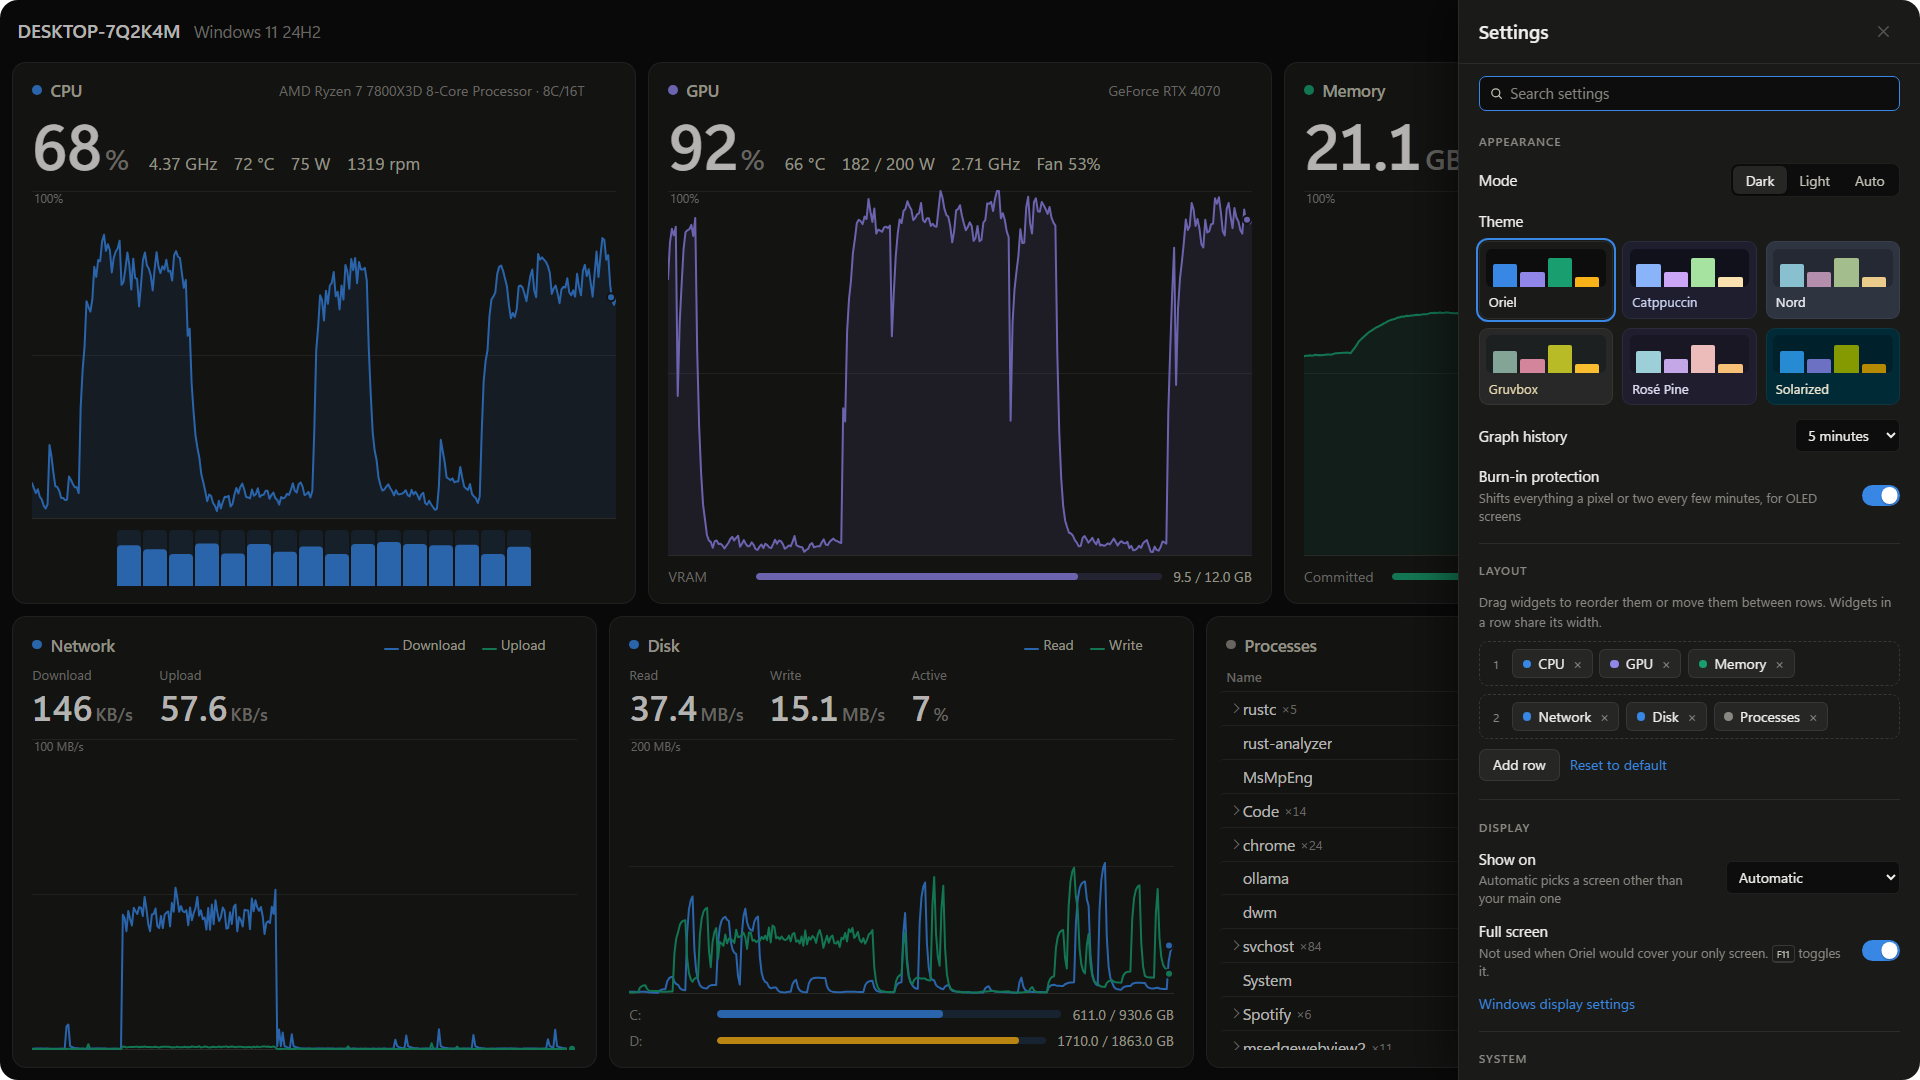
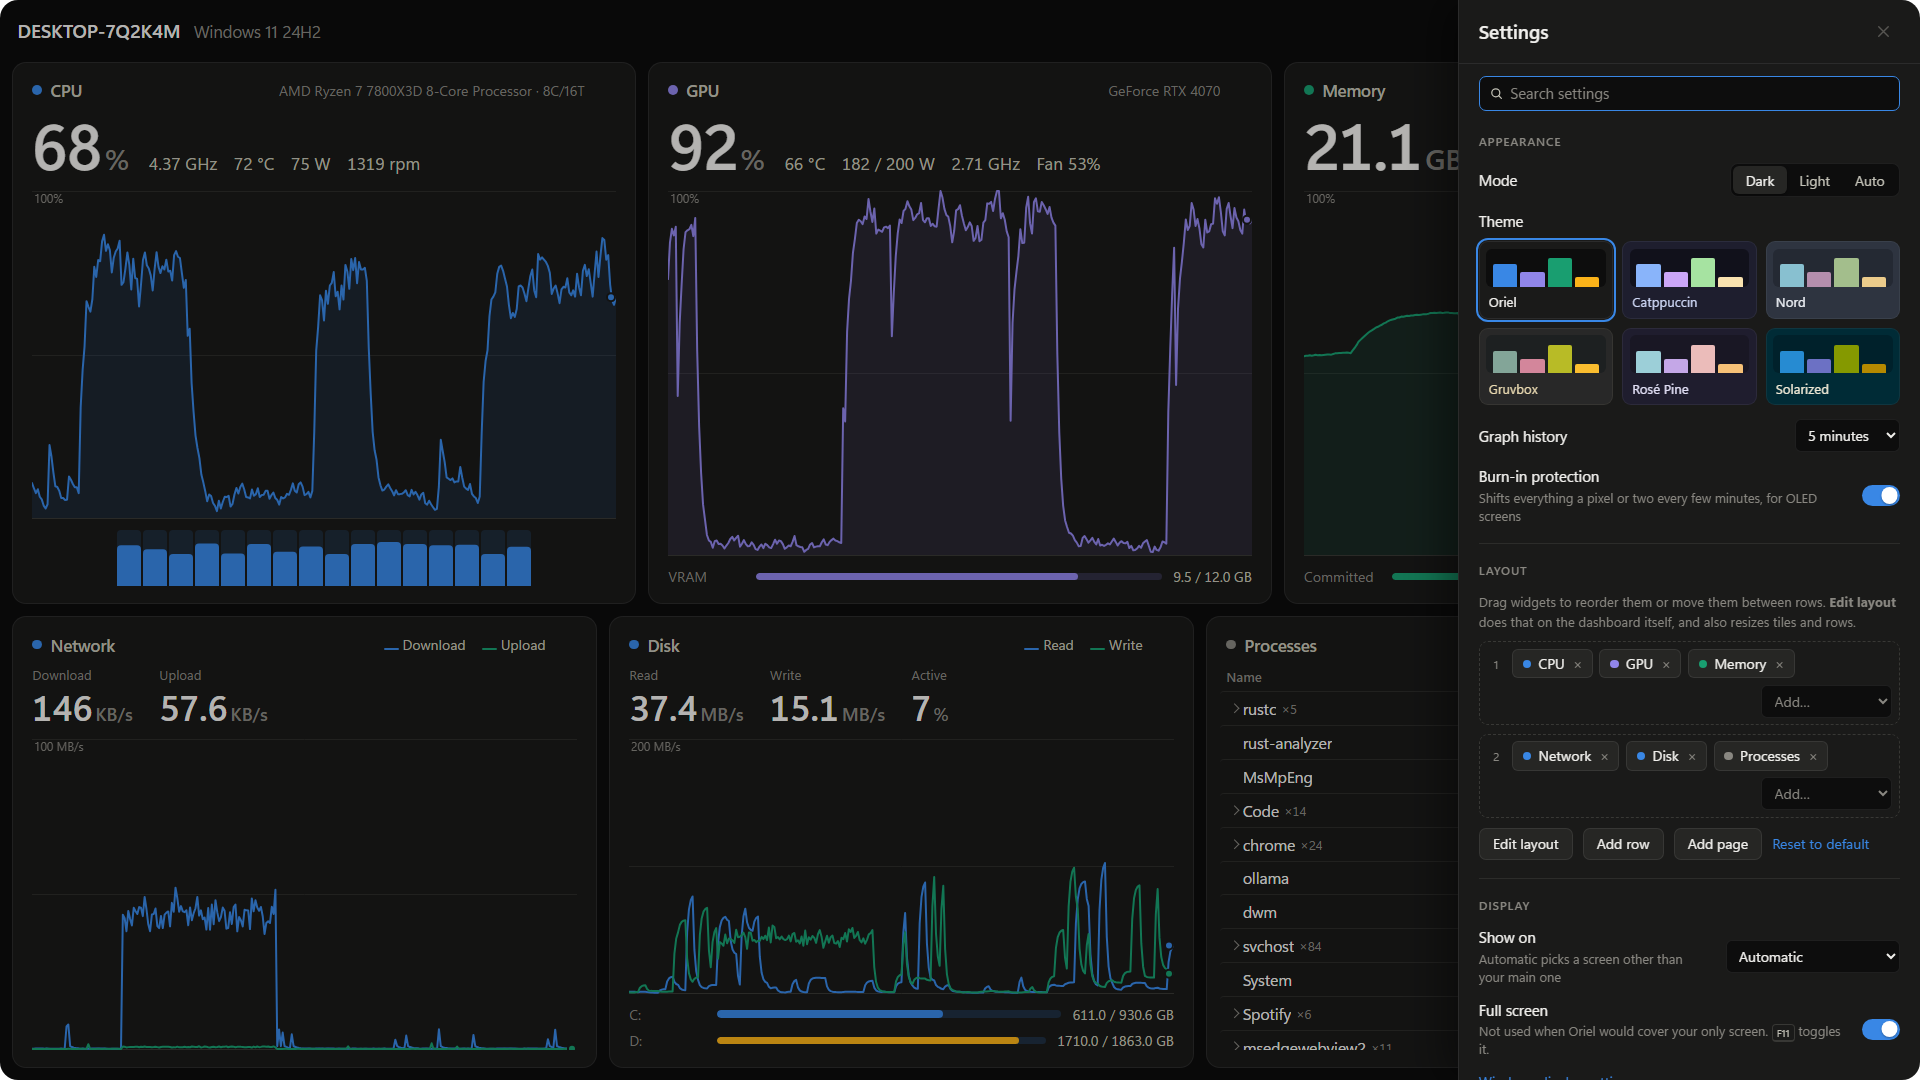
Prepare 0.2.0: version bump, a docs pass and a widgets screenshot (#9)
- Version 0.2.0 in Cargo.toml (and Cargo.lock, and the preview's made-up About).
- README: the widgets you add yourself get their own list and a picture of a
  second page; "Add it in Settings > Layout" once instead of six times; the
  weather/calendar section and the privacy FAQ say it once; the plugin warning
  mentions that plugins can read the settings, calendar links included.
- CONTRIBUTING: the plugin section points at the README and SECURITY.md instead
  of repeating them; release steps use a signed tag.
- SECURITY.md: Open windows sits with the other widgets, plugins last.
- preview.ps1 renders the new widgets page; settings.png re-rendered.

diff --git a/tools/preview/demo.js b/tools/preview/demo.js
@@ -116,7 +116,7 @@
   if (heights.length) settings.pages[0].rows = heights;
   const GPU_ID = "0x00000000_0x0000e1c7";
   const info = {
-    host: "DESKTOP-7Q2K4M", os: "Windows 11 24H2", version: "0.1.0",
+    host: "DESKTOP-7Q2K4M", os: "Windows 11 24H2", version: "0.2.0",
     cpu: { name: "AMD Ryzen 7 7800X3D 8-Core Processor", cores: 8, threads: 16, base_mhz: 4200 },
     mem_total: 31.9 * GB,
     gpus: [{ id: GPU_ID, name: "NVIDIA GeForce RTX 4070", vendor: "nvidia", integrated: false, vram_total: 12 * GB, shared_total: 15.9 * GB, sensors: true }],

diff --git a/README.md b/README.md
@@ -6,8 +6,8 @@
 
 **A command center for your second screen, on Windows.**
 
-Your CPU, GPU, memory, network, disks and processes on one calm, full-screen dashboard,<br>
-readable from across the desk and light enough to leave running all day.
+Your CPU, GPU, memory, network, disks and processes, plus what's playing, the weather and your<br>
+calendar, on one calm, full-screen dashboard you can read from across the desk and leave running all day.
 
 [![MIT license](https://img.shields.io/badge/license-MIT-3987e5)](LICENSE)
 ![Windows 10 and 11](https://img.shields.io/badge/Windows-10%20%C2%B7%2011-3987e5)
@@ -55,25 +55,32 @@ needs your attention.
   (`chrome ×24`, click to see each one) or as a tree like btop, with branches you can fold
   away. Search it (<kbd>/</kbd>), sort by any column, and right-click to end a process or a
   whole group
-- **Now playing**: the track, artist and cover from Spotify, your browser or any app that shows
-  in Windows' media controls, with play/pause and skip. Add it in Settings → Layout
-- **Volume mixer**: your speakers' or headphones' volume and every app's, each with a mute
-  button, like Windows' own mixer. Add it in Settings → Layout
-- **Weather**: the temperature, conditions, today's high and low, the next hours and the next
-  days for a place you pick, from [Open-Meteo](https://open-meteo.com). Add it in Settings → Layout
-- **Calendar**: what's coming up in the next 7 or 14 days, from the calendar links (.ics) you
-  paste in: Google, Outlook, Apple and any other that publishes one. Recurring events, time
-  zones and all-day events work, and what's on now or next is highlighted. Add it in Settings → Layout
-- **Gauges**: dials for CPU and GPU load and temperature and for memory, with your warn and
-  critical limits marked on them. Add it in Settings → Layout
-- **Open windows**: the windows the taskbar and Alt+Tab would list. Click one to bring it to the
-  front (it's restored if minimized), or hover and press × to ask it to close. Search it, and
-  see which one is in front. Add it in Settings → Layout
 - **Battery**, uptime and a clock in the header
 
 <picture>
   <source media="(prefers-color-scheme: light)" srcset="docs/images/process-tree-light.png">
   <img alt="The process list as a tree: explorer, then Windows Terminal, PowerShell, cargo and the rustc processes of a build, with the Code and Chrome branches folded away" src="docs/images/process-tree-dark.png">
+</picture>
+
+More widgets to add in Settings → Layout, or with **Edit layout** (<kbd>E</kbd>), on a page of
+their own if you like:
+
+- **Now playing**: the track, artist and cover from Spotify, your browser or any app that shows
+  in Windows' media controls, with play/pause and skip
+- **Volume mixer**: your speakers' or headphones' volume and every app's, each with a mute
+  button, like Windows' own mixer
+- **Weather**: now, the next hours and the next days for a place you pick, from
+  [Open-Meteo](https://open-meteo.com)
+- **Calendar**: the next 7 or 14 days from the calendar links (.ics) you paste in, from Google,
+  Outlook, Apple or anything else that publishes one, recurring events and time zones included
+- **Gauges**: dials for CPU and GPU load and temperature and for memory, with your warn and
+  critical limits marked on them
+- **Open windows**: what the taskbar and Alt+Tab would list. Click one to bring it to the front,
+  or press its × to ask it to close
+
+<picture>
+  <source media="(prefers-color-scheme: light)" srcset="docs/images/widgets-light.png">
+  <img alt="A second page of the dashboard: weather, calendar and now playing across the top; gauges, the volume mixer and open windows below" src="docs/images/widgets-dark.png">
 </picture>
 
 ## Themes
@@ -186,11 +193,10 @@ on. [`docs/examples/world-clock.js`](docs/examples/world-clock.js) is a small ex
 
 > [!WARNING]
 > A plugin is code that runs inside the dashboard with the same rights as Oriel's own widgets:
-> it can read everything on the dashboard and use what it can, including ending processes,
-> changing volume and opening Windows settings. Only use plugins from people you trust, like
+> it can read everything on the dashboard and in your settings (calendar links included), end
+> processes, change volume and open Windows settings. Only use plugins from people you trust, like
 > browser extensions. Oriel's content security policy keeps them from loading anything from the
-> internet, but that's a safety net, not a sandbox. Off by default; see
-> [SECURITY.md](SECURITY.md) for the details.
+> internet, but that's a safety net, not a sandbox. See [SECURITY.md](SECURITY.md) for the details.
 
 ## Sensors
 
@@ -212,8 +218,7 @@ and power while something is already using the GPU.
 ## Weather and calendar
 
 These two widgets are the only parts of Oriel that go online, and each only while it's on one of
-your pages. Without them Oriel makes no connections apart from the one to LibreHardwareMonitor on
-your own PC. Each goes to one kind of place, and nothing else is sent:
+your pages. Each goes to one kind of place, and nothing else is sent:
 
 - **Weather** asks [Open-Meteo](https://open-meteo.com) (free, no account) for the forecast about
   every 30 minutes, with the place's coordinates rounded to about a kilometre. Pick the place in
@@ -225,28 +230,24 @@ your own PC. Each goes to one kind of place, and nothing else is sent:
   work too.
 
 A calendar link is like a password: anyone who has it can read that calendar. Oriel keeps it in
-your settings file and shows it only in Settings, hidden until you press *Show*. It never shows it
-anywhere else, writes it in a log or puts it in an error message.
+your settings file and shows it only in Settings, hidden until you press *Show*, never in a log or
+an error message.
 
 Both use Windows' own secure connections (https only, with your PC's certificates and proxy
 settings). If a refresh fails, say because you're offline, the tile keeps showing what it had,
-marked *Out of date*, and tries again. The refresh button on a tile fetches again at once.
+marked *Out of date*, and tries again.
 
-Calendars can have recurring events (daily, weekly, monthly and yearly, with exceptions and
-moved or cancelled occurrences) in any time zone Windows knows, which covers what Google, Apple
-and Outlook write. Times show in your PC's time zone and clock format. A recurrence rule that uses
-something rarer (like "the 20th week of the year") shows its event once, rather than guessing.
+Recurring events (daily, weekly, monthly and yearly, with exceptions and moved or cancelled
+occurrences) work in any time zone Windows knows, and times show in your PC's own. A rarer rule
+(like "the 20th week of the year") shows its event once rather than guessing.
 
 ## FAQ
 
 **Does Oriel send my data anywhere?**
-Not unless you add the weather or calendar widget, and then only what's described under
-[Weather and calendar](#weather-and-calendar): the coordinates of the place you picked, and a
-request to each calendar link you pasted. There's no account, telemetry or update check. The
-only other connection it makes is to LibreHardwareMonitor's web server, at the address in
-Settings (your own PC by default), and only to read sensors. Plugins, if you turn them on, are
-scripts from you; Oriel itself sends nothing more, and its content security policy stops plugins
-making network requests.
+Only if you add the weather or calendar widget, and then only what
+[Weather and calendar](#weather-and-calendar) lists. There's no account, telemetry or update
+check. The only other connection is to LibreHardwareMonitor's web server, at the address in
+Settings (your own PC by default), to read sensors.
 
 **Does it slow my PC down?**
 With the dashboard on screen it uses about 6% of one CPU core and 140 MB of memory, most of

diff --git a/CONTRIBUTING.md b/CONTRIBUTING.md
@@ -114,19 +114,11 @@ rather than fixed colors, so the widget works in every theme, dark and light.
 
 ### Writing a plugin
 
-A plugin is a widget that lives in a folder instead of in Oriel's source, so nobody has to
-rebuild anything. Put `name.js` (and, if you want, `name.css` beside it) in
-`%APPDATA%\Oriel\widgets`, turn on **Settings → Plugins → Load widgets from the plugins folder**
-(the **Open plugins folder** button there creates and opens it) and restart Oriel. The widget
-then shows in Settings → Layout, marked *(plugin)*. [`docs/examples/world-clock.js`](docs/examples/world-clock.js)
-and its `.css` are a complete small one to copy.
-
-> [!WARNING]
-> A plugin runs inside the dashboard with the same rights as the built-in widgets: it can read
-> every sample, and call everything the dashboard can (end processes, change volume, open
-> Windows settings pages). Only use plugins from people you trust, as with browser extensions.
-> The page's content security policy stops a plugin loading anything from the internet (`fetch`,
-> `WebSocket`, remote scripts, images and fonts) but is a safety net, not a sandbox.
+A plugin is a widget that lives in `%APPDATA%\Oriel\widgets` instead of in Oriel's source, so
+nobody has to rebuild anything; the [README](README.md#plugins) says how to turn them on.
+[`docs/examples/world-clock.js`](docs/examples/world-clock.js) and its `.css` are a complete
+small one to copy. A plugin has the same rights as the built-in widgets, so
+[SECURITY.md](SECURITY.md) is worth a read before you share one.
 
 **The API** is the one the built-in widgets use, and `ui/core.js` documents it at the top:
 
@@ -192,12 +184,10 @@ made-up data from `tools/preview/demo.js`; edit anything in `ui/` and reload:
 powershell -ExecutionPolicy RemoteSigned -File tools\preview\preview.ps1
 ```
 
-Options go after the page's address, for example `?palette=nord&theme=light`,
-`?procs=tree`, `?layout=cpu,processes`, `?pages=Resources:cpu,gpu|processes;Media:media`,
-`?weather=error&calendar=stale` for the weather and calendar when they can't be fetched (they're made
-up there, and nothing goes online). `?edit=1` starts in Edit layout, and `?widths=2,1|1,1,1&heights=1,2`
-gives the first page the sizes Edit layout would have saved.
-The top of `demo.js` lists them all.
+Options go after the page's address, for example `?palette=nord&theme=light`, `?procs=tree`,
+`?pages=Resources:cpu,gpu|processes;Media:media`, `?edit=1` (start in Edit layout) or
+`?weather=error` (the weather is made up there too, and nothing goes online). The top of
+`demo.js` lists them all.
 
 Add `-Screenshots` to render the images in the README again (it uses Edge or Chrome,
 headless). The demo data is seeded, so the pictures only change when the dashboard does.
@@ -208,7 +198,8 @@ Releases are built by GitHub Actions (`.github/workflows/release.yml`), not on a
 App Control and local toolchains don't matter:
 
 1. Set `version` in `src-tauri/Cargo.toml` (the installer takes its version from there).
-2. Commit, then tag and push: `git tag v0.2.0` and `git push origin v0.2.0`.
+2. Commit, then make a signed tag and push it: `git tag -s v0.2.0 -m "Oriel 0.2.0"` and
+   `git push origin v0.2.0`.
 3. The workflow builds `Oriel-0.2.0-setup.exe`, `Oriel-0.2.0-portable.zip` and
    `SHA256SUMS.txt`, and drafts a release with them. Add notes and publish it.
 

diff --git a/SECURITY.md b/SECURITY.md
@@ -42,6 +42,11 @@ and Windows versions you tried.
   the widget it doesn't look. What's playing never leaves your PC.
 - With the volume mixer on the dashboard, it reads and changes the volume of your default output
   and of the apps playing through it (`set_volume`). Without the widget it doesn't look.
+- With the Open windows widget on the dashboard, it lists the titles of your open windows and
+  can bring one to the front or ask it to close, as its × button does (`focus_window`,
+  `close_window`). It never ends a process, and checks the window is still the one you saw before
+  it acts, since Windows reuses window handles. Window titles stay on your PC. Without the widget
+  it doesn't look.
 - Plugins are off by default. With **Load widgets from the plugins folder** on, the dashboard
   runs the `.js` files in `%APPDATA%\Oriel\widgets` as widgets (`src-tauri/src/plugins.rs`).
   That is code you chose to run, inside the dashboard page, with the same rights as the built-in
@@ -58,11 +63,6 @@ and Windows versions you tried.
     can find another way out.
   - A plugin that throws, or won't load, becomes an error tile instead of breaking the dashboard.
   - Plugins can't take over a built-in widget's id.
-- With the Open windows widget on the dashboard, it lists the titles of your open windows and
-  can bring one to the front or ask it to close, as its × button does (`focus_window`,
-  `close_window`). It never ends a process, and checks the window is still the one you saw before
-  it acts, since Windows reuses window handles. Window titles stay on your PC. Without the widget
-  it doesn't look.
 - It runs as you, without admin rights, and installs per user.
 - Releases are built by GitHub Actions from the tagged commit. Each release lists the SHA-256 of
   its files in `SHA256SUMS.txt`. They aren't code-signed yet.
